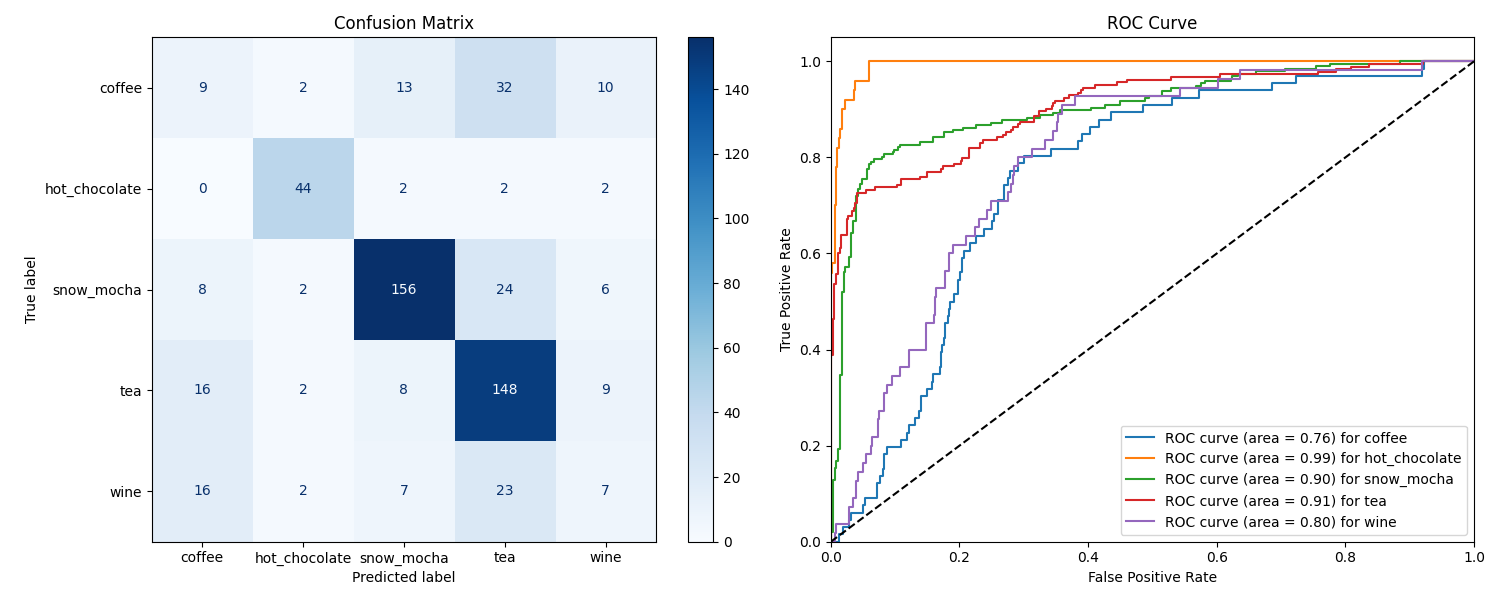
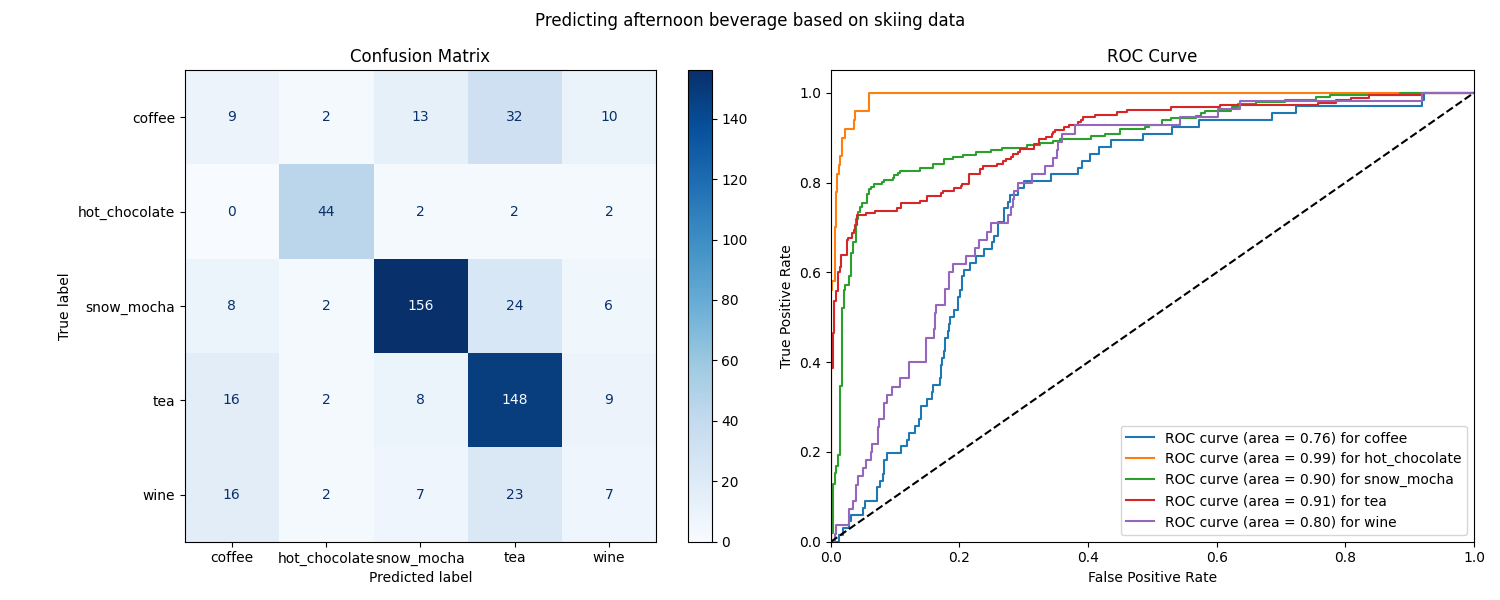
updates

diff --git a/dags/airflow_with_snowpark_tutorial.py b/dags/airflow_with_snowpark_tutorial.py
@@ -13,38 +13,41 @@ from airflow.models.baseoperator import chain
 from astronomer.providers.snowflake.utils.snowpark_helpers import SnowparkTable
 
 
-# toggle this to False if you are NOT using the Snowflake XCOM backend
-USE_SNOWFLAKE_XCOM_BACKEND = True
-
-# provide your Snowflake database and schema names
-MY_SNOWFLAKE_DATABASE = "TJF_TEST"  # an existing database
-MY_SNOWFLAKE_SCHEMA = "TJF_TEST_SCHEMA"  # an existing schema
-MY_SNOWFLAKE_TABLE = "SKI_DATA"
-MY_SNOWFLAKE_XCOM_DATABASE = "TESTING_SNOWPARK_XCOM_DB"
-MY_SNOWFLAKE_XCOM_SCHEMA = "TESTING_SNOWPARK_XCOM_SCHEMA"
+# toggle this to False if you are NOT using the Snowflake XCOM backend or
+# had the necessary objects created already
+SETUP_TEARDOWN_SNOWFLAKE_CUSTOM_XCOM_BACKEND = True
+MY_SNOWFLAKE_XCOM_DATABASE = "SNOWPARK_XCOM_DB"
+MY_SNOWFLAKE_XCOM_SCHEMA = "SNOWPARK_XCOM_SCHEMA"
 MY_SNOWFLAKE_XCOM_STAGE = "XCOM_STAGE"
 MY_SNOWFLAKE_XCOM_TABLE = "XCOM_TABLE"
 
+# provide your Snowflake database name, schema name, connection ID
+# and path to the Snowpark environment binary
+MY_SNOWFLAKE_DATABASE = "MY_SKI_DATA_DATABASE"  # an existing database
+MY_SNOWFLAKE_SCHEMA = "MY_SKI_DATA_SCHEMA"  # an existing schema
+MY_SNOWFLAKE_TABLE = "MY_SKI_DATA_TABLE"
 SNOWFLAKE_CONN_ID = "snowflake_default"
 SNOWPARK_BIN = "/home/astro/.venv/snowpark/bin/python"
 
 # while this tutorial will run with the default Snowflake warehouse, larger
-# datasets may require a larger warehouse. Set the following to true to
-# use a larger warehouse. And provide your Snowpark and regular warehouses' names.
-
-USE_SNOWPARK_WAREHOUSE = False
-MY_SNOWPARK_WAREHOUSE = "TESTING_SNOWPARK_WH"
+# datasets may require a Snowpark optimized warehouse. Set the following toggle to true to
+# use such a warehouse. And provide your Snowpark and regular warehouses' names.
+USE_SNOWPARK_WAREHOUSE = True
+MY_SNOWPARK_WAREHOUSE = "SNOWPARK_WH"
 MY_SNOWFLAKE_REGULAR_WAREHOUSE = "HUMANS"
 
 
 @dag(
     start_date=datetime(2023, 9, 1),
     schedule=None,
+    catchup=False,
 )
 def airflow_with_snowpark_tutorial():
-    if USE_SNOWFLAKE_XCOM_BACKEND:
+    if SETUP_TEARDOWN_SNOWFLAKE_CUSTOM_XCOM_BACKEND:
 
-        @task.snowpark_python()
+        @task.snowpark_python(
+            snowflake_conn_id=SNOWFLAKE_CONN_ID,
+        )
         def create_snowflake_objects(
             snowflake_xcom_database,
             snowflake_xcom_schema,
@@ -132,9 +135,9 @@ def airflow_with_snowpark_tutorial():
         )
 
     # use the Astro Python SDK to load data from a CSV file into Snowflake
-    load_file = aql.load_file(
-        task_id=f"load_from_file",
-        input_file=File(f"include/data/ski_dataset.csv"),
+    load_file_obj = aql.load_file(
+        task_id="load_file",
+        input_file=File("include/data/ski_dataset.csv"),
         output_table=Table(
             metadata={
                 "database": MY_SNOWFLAKE_DATABASE,
@@ -147,7 +150,9 @@ def airflow_with_snowpark_tutorial():
     )
 
     # create a model registry in Snowflake
-    @task.snowpark_python
+    @task.snowpark_python(
+        snowflake_conn_id=SNOWFLAKE_CONN_ID,
+    )
     def create_model_registry(demo_database, demo_schema):
         from snowflake.ml.registry import model_registry
 
@@ -159,7 +164,9 @@ def airflow_with_snowpark_tutorial():
 
     # Tasks using the @task.snowpark_python decorator run in
     # the regular Snowpark Python environment
-    @task.snowpark_python
+    @task.snowpark_python(
+        snowflake_conn_id=SNOWFLAKE_CONN_ID,
+    )
     def transform_table_step_one(df: SnowparkTable):
         from snowflake.snowpark.functions import col
         import pandas as pd
@@ -177,7 +184,7 @@ def airflow_with_snowpark_tutorial():
 
     # Tasks using the @task.snowpark_ext_python decorator can use an
     # existing python environment
-    @task.snowpark_ext_python(conn_id=SNOWFLAKE_CONN_ID, python=SNOWPARK_BIN)
+    @task.snowpark_ext_python(snowflake_conn_id=SNOWFLAKE_CONN_ID, python=SNOWPARK_BIN)
     def transform_table_step_two(df):
         df_serious_skiers = df[df["HOURS_SKIED"] >= 1]
 
@@ -186,7 +193,7 @@ def airflow_with_snowpark_tutorial():
     # Tasks using the @task.snowpark_virtualenv decorator run in a virtual
     # environment created on the spot using the requirements specified
     @task.snowpark_virtualenv(
-        conn_id=SNOWFLAKE_CONN_ID,
+        snowflake_conn_id=SNOWFLAKE_CONN_ID,
         requirements=["pandas", "scikit-learn"],
     )
     def train_beverage_classifier(
@@ -363,12 +370,17 @@ def airflow_with_snowpark_tutorial():
         ax[1].set_title(f"ROC Curve")
         ax[1].legend(loc="lower right")
 
+        fig.suptitle("Predicting afternoon beverage based on skiing data")
+
         plt.tight_layout()
         plt.savefig(f"include/metrics.png")
 
-    if USE_SNOWFLAKE_XCOM_BACKEND:
+    if SETUP_TEARDOWN_SNOWFLAKE_CUSTOM_XCOM_BACKEND:
         # clean up the XCOM table
-        @task.snowpark_ext_python(python="/home/astro/.venv/snowpark/bin/python")
+        @task.snowpark_ext_python(
+            snowflake_conn_id=SNOWFLAKE_CONN_ID,
+            python="/home/astro/.venv/snowpark/bin/python",
+        )
         def cleanup_xcom_table(
             snowflake_xcom_database,
             snowflake_xcom_schema,
@@ -405,7 +417,7 @@ def airflow_with_snowpark_tutorial():
     )
 
     train_beverage_classifier_obj = train_beverage_classifier(
-        transform_table_step_two(transform_table_step_one(load_file)),
+        transform_table_step_two(transform_table_step_one(load_file_obj)),
         database_name=MY_SNOWFLAKE_DATABASE,
         schema_name=MY_SNOWFLAKE_SCHEMA,
         use_snowpark_warehouse=USE_SNOWPARK_WAREHOUSE,
@@ -417,8 +429,8 @@ def airflow_with_snowpark_tutorial():
 
     plot_results_obj = plot_results(train_beverage_classifier_obj)
 
-    if USE_SNOWFLAKE_XCOM_BACKEND:
-        chain(create_snowflake_objects_obj, load_file)
+    if SETUP_TEARDOWN_SNOWFLAKE_CUSTOM_XCOM_BACKEND:
+        chain(create_snowflake_objects_obj, load_file_obj)
         chain(
             plot_results_obj,
             cleanup_xcom_table_obj.as_teardown(setups=create_snowflake_objects_obj),
